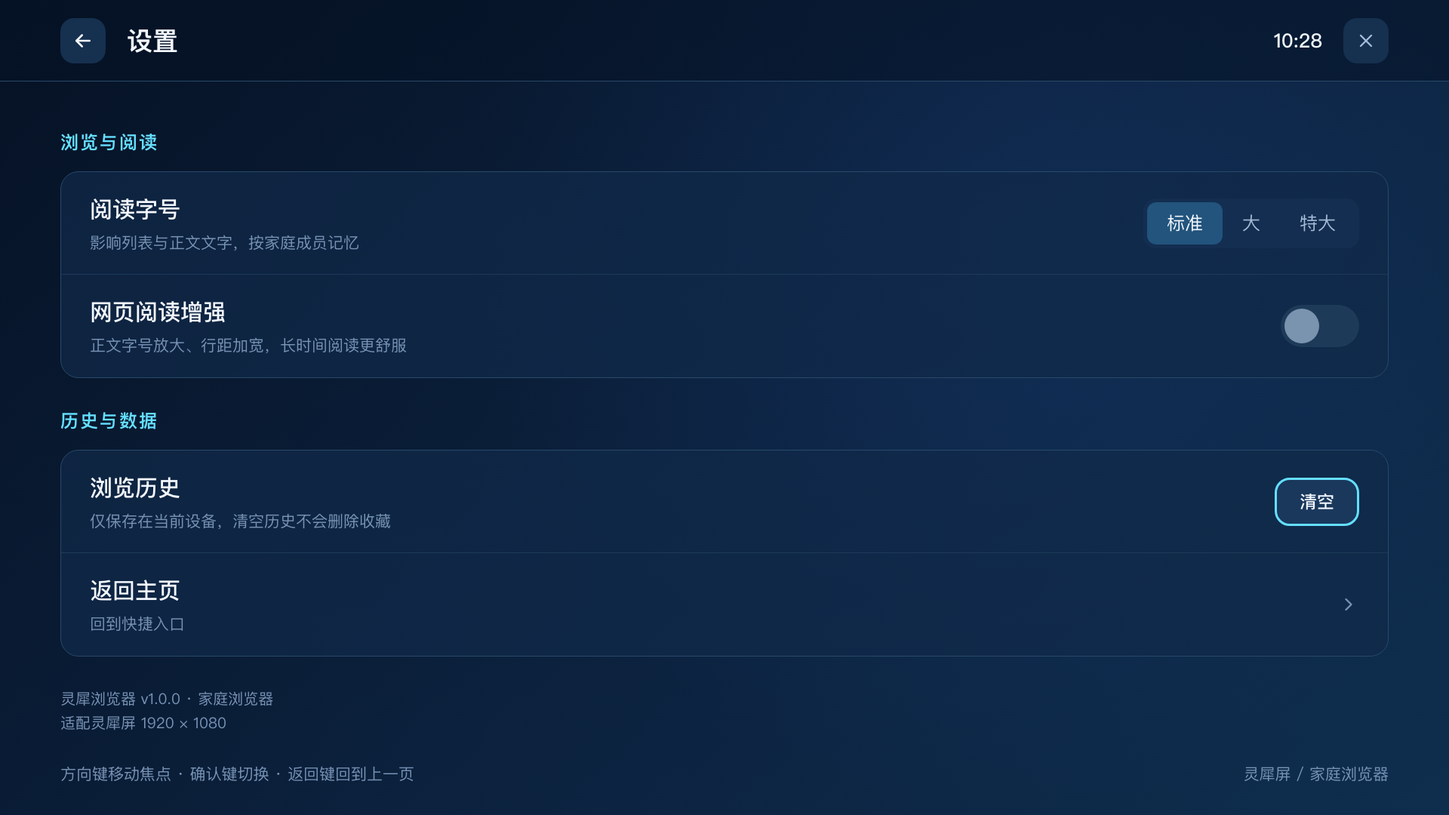
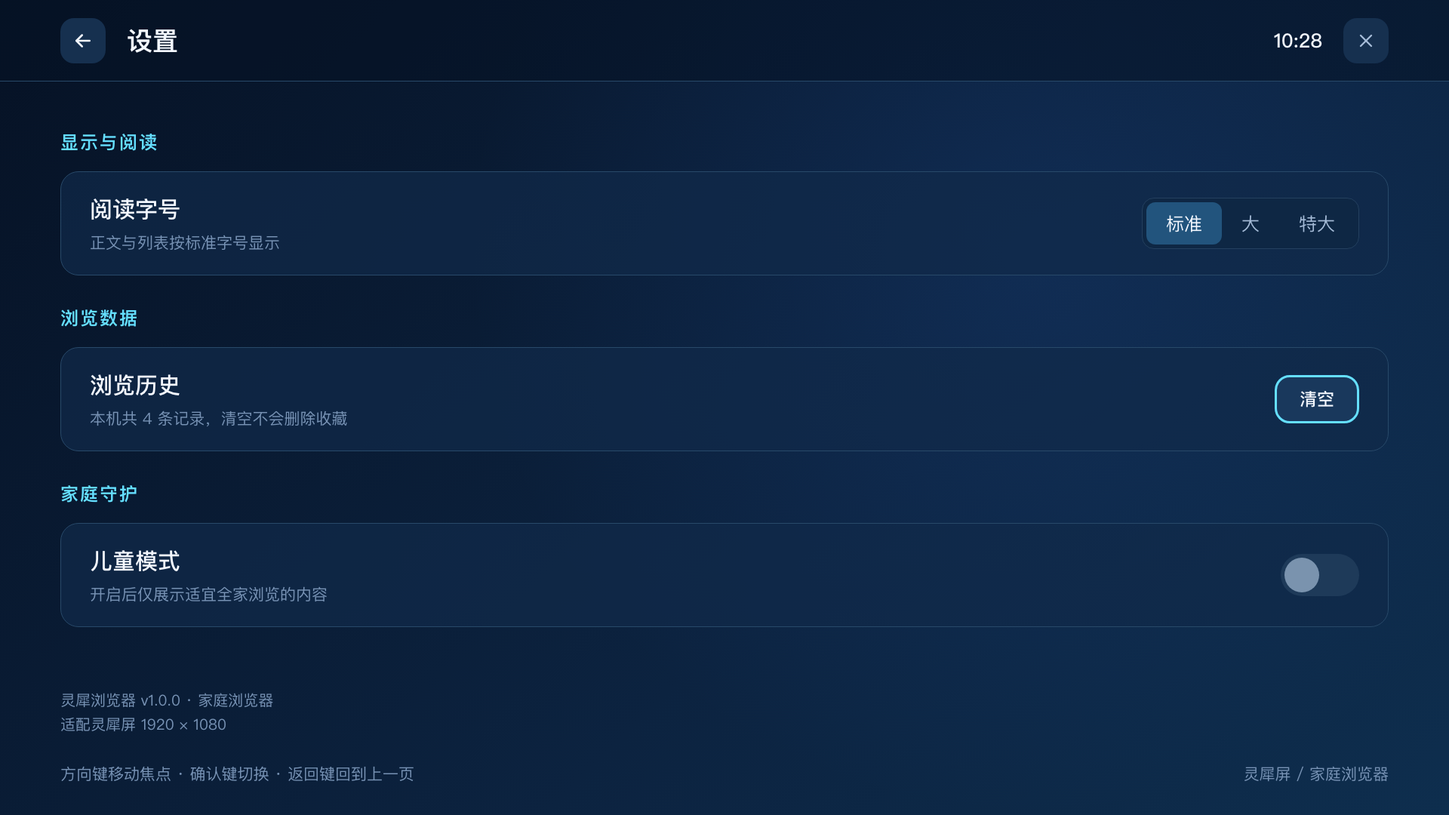
feat: 设置页收敛为三项功能 —— 字号 / 历史记录 / 儿童模式
- 移除「网页阅读增强」开关与「返回主页」行
- 新增儿童模式开关：开启后副文案切换 + toast 提示，深链 kid=1 可直达
- 历史记录副文案展示本机真实条数，清空后变空态文案
- 字号副文案随三档联动
- 版本信息贴底布局，三组间距重新排布
- 新增 14 号预览图（儿童模式开启 + 特大字号），README 同步

diff --git a/index.html b/index.html
@@ -1,10 +1,9 @@
 <!DOCTYPE html>
-<html lang="zh-CN">
-<head>
-<meta charset="UTF-8">
-<meta name="viewport" content="width=device-width,initial-scale=1,viewport-fit=cover">
-<title>灵犀浏览器 · 高保真可交互 Demo（Figma 版）</title>
-<style>
+<html lang="zh-CN" data-page-node-id="DjCgI4465AZDsR3R7Gexhx"><head data-page-node-id="IdLSj3w5U4Wdhj05lxm36c">
+<meta charset="UTF-8" data-page-node-id="A9mv52RTTQGx9aaHUYdgpD">
+<meta name="viewport" content="width=device-width,initial-scale=1,viewport-fit=cover" data-page-node-id="RTt3OwHAK2HHp5IsEByKw9">
+<title data-page-node-id="rR9gjrZJ7OsSranFnjLhww">灵犀浏览器 · 高保真可交互 Demo（Figma 版）</title>
+<style data-page-node-id="Mv7IbpJXWbVAdiCnedDA9O">
 /* ===================== 设计令牌（取自 Figma） ===================== */
 :root{
   --bg-a:#071429; --bg-b:#10294F; --bg-c:#123A61;
@@ -355,11 +354,6 @@ svg{display:block;}
 .sec{margin-top:16px;}
 .sec h5{margin:0;font-size:calc(28px * var(--ts));font-weight:700;color:var(--ink);line-height:41px;}
 .sec p{margin:6px 0 0;font-size:calc(24px * var(--ts));color:#43566B;line-height:35px;}
-/* 网页阅读增强（设置页开关） */
-#stage.read .sec{margin-top:22px;}
-#stage.read .sec p{line-height:44px;}
-#stage.read .at-lead{line-height:46px;}
-#stage.read .res .snip{line-height:38px;}
 .at-note{font-size:19px;color:#64748B;margin-top:18px;}
 .at-side{width:432px;flex:0 0 auto;margin-top:16px;}
 .notes{background:#F2F6F3;border-radius:20px;padding:28px;height:367px;}
@@ -423,7 +417,8 @@ svg{display:block;}
 .setbar h2{margin:0 0 0 28px;font-size:34px;font-weight:700;color:var(--t1);}
 .setbar .sp{flex:1;}
 .setbar .tm{font-size:26px;font-weight:500;color:var(--t1);}
-.setbody{position:absolute;left:0;top:108px;width:1920px;padding:64px 80px 0;z-index:2;}
+.setbody{position:absolute;left:0;top:108px;bottom:104px;width:1920px;padding:64px 80px 0;z-index:2;
+  display:flex;flex-direction:column;}
 .setsec{margin:0 0 22px;font-size:24px;font-weight:700;color:var(--cyan);letter-spacing:2px;}
 .setlist{
   border:1px solid var(--line2);border-radius:24px;overflow:hidden;
@@ -437,11 +432,11 @@ svg{display:block;}
 .sw::after{content:"";position:absolute;left:5px;top:5px;width:46px;height:46px;border-radius:50%;background:#7A93AE;transition:transform .24s var(--ease),background .24s var(--ease);}
 .sw.on{background:#1E6F92;}
 .sw.on::after{transform:translateX(48px);background:var(--cyan);}
-.seg{display:flex;background:#132E50;border-radius:16px;padding:5px;flex:0 0 auto;}
+.seg{display:flex;background:#0E2744;border:1px solid #24405F;border-radius:16px;padding:5px;flex:0 0 auto;}
 .seg div{padding:0 26px;height:56px;display:grid;place-items:center;font-size:24px;color:var(--t2);border-radius:12px;cursor:pointer;}
 .seg div.on{background:#22547D;color:var(--t1);}
 .srow .arrow{width:28px;height:28px;color:var(--t3);}
-.setver{font-size:20px;color:var(--t3);line-height:32px;margin-top:32px;}
+.setver{font-size:20px;color:var(--t3);line-height:32px;margin-top:auto;padding-top:24px;}
 .setfoot{
   position:absolute;left:80px;right:80px;bottom:40px;z-index:2;
   display:flex;align-items:center;justify-content:space-between;
@@ -461,146 +456,147 @@ svg{display:block;}
 
 [hidden]{display:none!important;}
 </style>
-</head>
-<body>
-<div id="wrap">
-<div id="stage">
+<style id="__dm_no_drag_style__">* { -webkit-user-drag: none !important; }</style><style id="__dm_bindable_badge_style__">[data-sp-bindable="database"]{outline:1px dashed #0088ff;outline-offset:2px;border-radius:4px;}[data-sp-bindable="database"] *{pointer-events:none !important;transition:none !important;animation:none !important;}[data-sp-bindable="database"]{transition:none !important;animation:none !important;}</style></head>
+<body data-page-node-id="K0jX4xN5Y0ARMGz3UOBfH4" style="">
+<div id="wrap" data-page-node-id="YT48ERnuIhGshTEkq0cD3b">
+<div id="stage" style="transform: translate(-50%, -50%) scale(0.477083);" data-page-node-id="OiMZeWwTZte4GnMB11GFU7">
 
   <!-- ===================== 设备状态 ===================== -->
-  <header class="statusbar" id="statusbar">
-    <div class="brand">
-      <span class="g" data-i="globe"></span>
-      <span class="name">灵犀浏览器</span>
-      <span class="sep"></span>
-      <span class="sub">一家人的好奇心</span>
+  <header class="statusbar" id="statusbar" data-page-node-id="7hF9Jm30AgtLHV9eD8EetH">
+    <div class="brand" data-page-node-id="3FRlpWeycgC3JjMkxu4DHf">
+      <span class="g" data-i="globe" data-page-node-id="iiInuiCiSjaLB8W9AjsjZ0"><svg class="" viewBox="0 0 24 24" fill="none" stroke="currentColor" stroke-width="2" stroke-linecap="round" stroke-linejoin="round" data-page-node-id="UBAH7RQprLnh2JXO8QKQ3b"><circle cx="12" cy="12" r="10" data-page-node-id="OrcNPzssQK5pJrMO4vhWlt"></circle><path d="M2 12h20" data-page-node-id="5xgaaJU8xqCrxI2sRmV1xF"></path><path d="M12 2a15.3 15.3 0 0 1 4 10 15.3 15.3 0 0 1-4 10 15.3 15.3 0 0 1-4-10 15.3 15.3 0 0 1 4-10z" data-page-node-id="aMJAYrCKd8DtAexYPqmI5Y"></path></svg></span>
+      <span class="name" data-page-node-id="Az4WjOLMXEQEPBeoSfIkBM">灵犀浏览器</span>
+      <span class="sep" data-page-node-id="eq88qudCkc9C4LJAHjGo1c"></span>
+      <span class="sub" data-page-node-id="8wuDrvJZYpAs76Q4n0htrE">一家人的好奇心</span>
     </div>
-    <div class="nettime">
-      <span class="w" data-i="wifi"></span>
-      <span class="txt">网络已连接</span>
-      <span class="time">10:28</span>
+    <div class="nettime" data-page-node-id="ddnrzWRE2qf7RFGRpINEYS">
+      <span class="w" data-i="wifi" data-page-node-id="GG3NxLI0qcSs4x1IRNJzX1"><svg class="" viewBox="0 0 24 24" fill="none" stroke="currentColor" stroke-width="2" stroke-linecap="round" stroke-linejoin="round" data-page-node-id="49KF6WgH5hg6LmjhLPiUEW"><path d="M5 12.55a11 11 0 0 1 14.08 0" data-page-node-id="gnYpUlIxJOpOerC1DuY0it"></path><path d="M8.53 16.11a6 6 0 0 1 6.95 0" data-page-node-id="UyW1zL7vDulvr2z9RpMdjh"></path><path d="M12 20h.01" data-page-node-id="8SApgL5CuZFngvqEqDHZd4"></path></svg></span>
+      <span class="txt" data-page-node-id="VSZBwVBCL3Nm3ccP89AL1d">网络已连接</span>
+      <span class="time" data-page-node-id="Gu6KOAWyvDG3MQ5caXUoBX">10:28</span>
     </div>
   </header>
 
   <!-- ===================== 搜索框 ===================== -->
-  <div class="searchbar" id="searchbar" data-act="toKb">
-    <span class="s-ico" data-i="search"></span>
-    <div class="s-text" id="sbText"></div>
-    <div class="s-mic" id="micBtn" data-act="toVoice" data-i="mic"></div>
-  </div>
+  
 
   <!-- ===================== 首页 Tab ===================== -->
-  <div class="tabs" id="tabs">
-    <div class="tab" data-act="tabFav"><span data-i="grid"></span>快捷入口</div>
-    <div class="tab" data-act="tabHis"><span data-i="clock"></span>浏览历史</div>
+  <div class="searchbar" id="searchbar" data-act="toKb" data-page-node-id="ZSPngofHqGEy9tFm5vRSuq">
+    <span class="s-ico" data-i="search" data-page-node-id="cOmgoD3Ja7awUwRhomfNDw"><svg class="" viewBox="0 0 24 24" fill="none" stroke="currentColor" stroke-width="2" stroke-linecap="round" stroke-linejoin="round" data-page-node-id="kU7V7tAutql9JMsPTPL438"><circle cx="11" cy="11" r="8" data-page-node-id="A7FURaGRbOyPCZjgxDvvYh"></circle><path d="m21 21-4.3-4.3" data-page-node-id="3MOdBkh7vvEe9kAsRsjDs5"></path></svg></span>
+    <div class="s-text" id="sbText" data-page-node-id="YciJF7GeE95Xc51iHGmIOm"><span data-page-node-id="9rce4muwflRkkwLv5gcKbT">搜索或输入网址</span></div>
+    <div class="s-mic" id="micBtn" data-act="toVoice" data-i="mic" data-page-node-id="TedR4Tq5PpWVc63iYU9FmA"><svg class="" viewBox="0 0 24 24" fill="none" stroke="currentColor" stroke-width="2" stroke-linecap="round" stroke-linejoin="round" data-page-node-id="njfIQY2cRkQhxDZTpZs5y6"><path d="M12 2a3 3 0 0 0-3 3v7a3 3 0 0 0 6 0V5a3 3 0 0 0-3-3z" data-page-node-id="YdzLXvcwiJPca5zDtCF7mm"></path><path d="M19 10v2a7 7 0 0 1-14 0v-2" data-page-node-id="pR4787wGQxrBml4SDdOWWX"></path><path d="M12 19v3" data-page-node-id="6COSg0HfYSZ2XoA0qRFqZX"></path></svg></div>
+  </div><div class="tabs" id="tabs" data-page-node-id="0WCVQHSzqmR3DBUqrYrHcK">
+    <div class="tab on" data-act="tabFav" data-page-node-id="0PUWaODGz59ctHsHbWXAgh"><span data-i="grid" data-page-node-id="JdpN08d1MCrnUL88CL33no"><svg class="" viewBox="0 0 24 24" fill="none" stroke="currentColor" stroke-width="2" stroke-linecap="round" stroke-linejoin="round" data-page-node-id="a8AODklpAzGhQjwHfbeq1Y"><rect x="3" y="3" width="7" height="7" rx="1.4" data-page-node-id="it2wakjMoFfaqXD0nJtiOr"></rect><rect x="14" y="3" width="7" height="7" rx="1.4" data-page-node-id="m5GsHePpUiybUxv4GYMpwA"></rect><rect x="14" y="14" width="7" height="7" rx="1.4" data-page-node-id="NCuJB0ibyZEOtoVhlSBpyJ"></rect><rect x="3" y="14" width="7" height="7" rx="1.4" data-page-node-id="HfZqBNBD7IRYkSAHI24sGu"></rect></svg></span>快捷入口</div>
+    <div class="tab" data-act="tabHis" data-page-node-id="enoV7zDGxvV2FAiDSpNBEs"><span data-i="clock" data-page-node-id="T7j2bf55jkSsEW6DFY1njc"><svg class="" viewBox="0 0 24 24" fill="none" stroke="currentColor" stroke-width="2" stroke-linecap="round" stroke-linejoin="round" data-page-node-id="zFp1CgHOGQMUsN74qCusbF"><circle cx="12" cy="12" r="10" data-page-node-id="0GK6ilpUJCqsK68HzOaGmE"></circle><path d="M12 6v6l4 2" data-page-node-id="EDTm75pGEBd3ZnAX4Zs2wW"></path></svg></span>浏览历史</div>
   </div>
 
   <!-- ===================== 收藏 ===================== -->
-  <section class="favs" id="favs"></section>
+  <section class="favs" id="favs" data-page-node-id="60yCrflzl7Y14qbRR3OwOs"><div class="head" data-page-node-id="0vOUBIp00XYTFneSavKA08"><div class="l" data-page-node-id="BTjRgQoFzYhwfmo6roNAy7"><h2 data-page-node-id="FsU9ePF3opNxQ0WU98VIzD">我的收藏</h2><span class="slash" data-page-node-id="jqCif7XFSmz0DyIHzsOOZ2">/</span><span class="sub" data-page-node-id="qB5F99iBy9j8dnuvdoX8Ts">常用</span></div><div class="r" data-page-node-id="9sYrhjR6jAO010o0Gs2iAm">常去的网站，一步到达</div></div><div class="grid" data-page-node-id="Z8hm56Yb65lMoFiXoxvqiu"><div class="site on" data-act="openSite" data-idx="0" data-page-node-id="itqpySNeTvKk6aQKlGv2EW"><div class="row1" data-page-node-id="xh0OWCGRht0PNp7lsiE4a4"><div class="badge" style="background:rgba(229,139,172,0.125);color:#E58BAC" data-page-node-id="Gy7j7Q1mJpp510Z7b1rn92">哔</div><div class="meta" data-page-node-id="8RF1N07qI7b7ei39grAwHH"><div class="nm" data-page-node-id="H4QQjUEbxp6BdN8HNkqHTG">哔哩哔哩</div><div class="dm" data-page-node-id="tdHakL4XefxERpIu0UgksM">bilibili.com</div></div></div><div class="row2" data-page-node-id="pi5RqDEuRezEHsgswZXgYU"><span class="use" data-page-node-id="Hc2aKy22VI7fZyFu7l69BA">视频 · 兴趣与知识</span><span class="go" style="color:var(--cyan)" data-page-node-id="JPN4dwoOK8oVbww5ZKY6cj"><svg class="" viewBox="0 0 24 24" fill="none" stroke="currentColor" stroke-width="2" stroke-linecap="round" stroke-linejoin="round" data-page-node-id="dH7lRA5uZXAMBSpICRWxw4"><path d="M7 17 17 7" data-page-node-id="xsryMiAwWBhy4ei1jrBZYz"></path><path d="M7 7h10v10" data-page-node-id="e5NTnoeuKR5UAE02RVmyGh"></path></svg></span></div></div><div class="site" data-act="openSite" data-idx="1" data-page-node-id="luHhtRc6wXfvoSIKAvjE6K"><div class="row1" data-page-node-id="62l2FKCLENz3QVTXSHe3Ug"><div class="badge" style="background:rgba(179,165,244,0.125);color:#B3A5F4" data-page-node-id="Ot3joJTzjxawA3mzYFEwDx">咪</div><div class="meta" data-page-node-id="iQ0UgLy92OvPCyqDpVpwbY"><div class="nm" data-page-node-id="B0klLMJX3s8aLTIQMAX9qE">移动咪咕</div><div class="dm" data-page-node-id="n4ra5m6P2cunJEASxvkQXI">migu.cn</div></div></div><div class="row2" data-page-node-id="fojb0fGY91x9H0krfh6Plv"><span class="use" data-page-node-id="GeJYaPqXEHYeVLyWtVDxlT">影音 · 赛事与好剧</span><span class="go" style="color:var(--t3)" data-page-node-id="SK01CJtiHmqa5ceWpBRpyE"><svg class="" viewBox="0 0 24 24" fill="none" stroke="currentColor" stroke-width="2" stroke-linecap="round" stroke-linejoin="round" data-page-node-id="EIlKb95WNnsOJp7UGPBqHz"><path d="m9 18 6-6-6-6" data-page-node-id="HBHuBb7OVIUr3cVWQ7Pvom"></path></svg></span></div></div><div class="site" data-act="openSite" data-idx="2" data-page-node-id="FBlAoOlh4FtEkAmNd5RCLA"><div class="row1" data-page-node-id="MLNIBzJMwxmBMdN6xNBlyB"><div class="badge" style="background:rgba(120,189,246,0.125);color:#78BDF6" data-page-node-id="G1iDuHr1giN1Nb4ww5OfxA">学</div><div class="meta" data-page-node-id="hKGuartVnDXBa6ECzi3aic"><div class="nm" data-page-node-id="LboAlxWD1WCJStswz8nAX3">国家智慧教育平台</div><div class="dm" data-page-node-id="BbLDMZw9rD5sDDC69uuB9p">smartedu.cn</div></div></div><div class="row2" data-page-node-id="RvphuRsLTWLXCtcWwaqWmY"><span class="use" data-page-node-id="NCyaQcB9acgAEB4oqwapB4">教育 · 优质学习资源</span><span class="go" style="color:var(--t3)" data-page-node-id="k1xFzDHJU0UZyBlPsi4vGl"><svg class="" viewBox="0 0 24 24" fill="none" stroke="currentColor" stroke-width="2" stroke-linecap="round" stroke-linejoin="round" data-page-node-id="VTbQfjyu3FDovmSs5NHAOX"><path d="m9 18 6-6-6-6" data-page-node-id="Jg2webRkkWfUlX19Y4DMT4"></path></svg></span></div></div><div class="site" data-act="openSite" data-idx="3" data-page-node-id="yyB3HQUDSu7pfIAGKHHDZP"><div class="row1" data-page-node-id="iSvBlm1jFBQ6OgRNavfMIK"><div class="badge" style="background:rgba(230,189,123,0.125);color:#E6BD7B" data-page-node-id="DNA84oHEkZ2Wr4v7dewXsx">晴</div><div class="meta" data-page-node-id="HXNxay2CpXyyjifCaQr1Vs"><div class="nm" data-page-node-id="P7WjStjq9DPWmRyBT9sK3Q">中国天气网</div><div class="dm" data-page-node-id="hO6Gh147NFDjosCY9d6dN3">weather.com.cn</div></div></div><div class="row2" data-page-node-id="ZWu0l0Fb0Cr9M2fzGn9DoW"><span class="use" data-page-node-id="oW3VFBDqlBuHwpmTMiKtK7">生活 · 预报与出行</span><span class="go" style="color:var(--t3)" data-page-node-id="3R3CrLSJrAeURIYTGsNgq3"><svg class="" viewBox="0 0 24 24" fill="none" stroke="currentColor" stroke-width="2" stroke-linecap="round" stroke-linejoin="round" data-page-node-id="QrmFe11W4uVo00Dpe7VfbK"><path d="m9 18 6-6-6-6" data-page-node-id="bES78fu6iASA7rhxtEUzrv"></path></svg></span></div></div><div class="site" data-act="openSite" data-idx="4" data-page-node-id="0X3J2EGtSsYRpnDg7BR1rd"><div class="row1" data-page-node-id="Qkr8dakt9iYkXgDm3EXGeD"><div class="badge" style="background:rgba(125,202,188,0.125);color:#7DCABC" data-page-node-id="lH5npqzScnGHnTsDsjFYUh">政</div><div class="meta" data-page-node-id="lwNDCIGvYzvVkazdac237D"><div class="nm" data-page-node-id="FGkcwcOC6c5ESUjIocD2Tr">国家政务服务平台</div><div class="dm" data-page-node-id="ZN3DYeD2fdtjsp3Cy2RS3Q">gjzwfw.gov.cn</div></div></div><div class="row2" data-page-node-id="AAEYWAQdYdY2vkE5wHkRgS"><span class="use" data-page-node-id="FgpPBNqK4NYd3RMJpsOH2I">政务 · 便民服务</span><span class="go" style="color:var(--t3)" data-page-node-id="dFXa2z6PlqWlKsQ6GHWovk"><svg class="" viewBox="0 0 24 24" fill="none" stroke="currentColor" stroke-width="2" stroke-linecap="round" stroke-linejoin="round" data-page-node-id="IIBqXDrsAVK1z3jtA6Oqdz"><path d="m9 18 6-6-6-6" data-page-node-id="aGqNZMUsJw1uchNvXGaIke"></path></svg></span></div></div><div class="site" data-act="openSite" data-idx="5" data-page-node-id="3xXEncPnZBFN7TOOaTt0gL"><div class="row1" data-page-node-id="E1EkyrnbH5bHhgkk8HrDkw"><div class="badge" style="background:rgba(147,178,239,0.125);color:#93B2EF" data-page-node-id="ALRTKEEzin0REDAVqxhgHa">新</div><div class="meta" data-page-node-id="4svX48keIuSkjBrcjmY6GD"><div class="nm" data-page-node-id="s9tWUKZnfLuvCGUvxVPTqi">新华网</div><div class="dm" data-page-node-id="xFkMvKgPN6SCC9rpabBdtP">news.cn</div></div></div><div class="row2" data-page-node-id="HuH18USE2DSdxFDBgFGnOM"><span class="use" data-page-node-id="tlGQilHcKQBKLj4Ox2uAtD">资讯 · 了解身边世界</span><span class="go" style="color:var(--t3)" data-page-node-id="mkBFH2Zhx5h3KujdhiQ7nV"><svg class="" viewBox="0 0 24 24" fill="none" stroke="currentColor" stroke-width="2" stroke-linecap="round" stroke-linejoin="round" data-page-node-id="4moZQZBEDIdQj5WTBh620u"><path d="m9 18 6-6-6-6" data-page-node-id="DOpaFR5ijEUzSEM2bgWncm"></path></svg></span></div></div></div><div class="tip" data-page-node-id="KXqw1Me8mRbEocqAzIOUnT"><svg class="" viewBox="0 0 24 24" fill="none" stroke="currentColor" stroke-width="2" stroke-linecap="round" stroke-linejoin="round" data-page-node-id="lCIBTUxjSDFE1ftkWkOER2"><path d="m12 2 3.09 6.26L22 9.27l-5 4.87 1.18 6.88L12 17.77l-6.18 3.25L7 14.14 2 9.27l6.91-1.01L12 2z" data-page-node-id="gHR98tz2ZGP7ZxpHBl7D7X"></path></svg><span data-page-node-id="8SEGSp6vVQSzSV2rr5aVic">浏览网页时点右上角星标收藏，把喜欢的页面留在这里。</span></div></section>
 
   <!-- ===================== 浏览历史 ===================== -->
-  <section class="history" id="history" hidden></section>
+  <section class="history" id="history" hidden="" data-page-node-id="TG7OqijtL8GyiGsPz823ER"></section>
 
   <!-- ===================== 空状态 ===================== -->
-  <section class="empty" id="empty" hidden></section>
+  <section class="empty" id="empty" hidden="" data-page-node-id="UCxMxgu6clUgI9WAAG8t4s"></section>
 
   <!-- ===================== 键盘 ===================== -->
-  <section class="kb" id="kb" hidden></section>
+  <section class="kb" id="kb" hidden="" data-page-node-id="l9IO6PwYVJM2V3qJjnFW0h"></section>
 
   <!-- ===================== 语音 ===================== -->
-  <section class="voice" id="voice" hidden></section>
+  <section class="voice" id="voice" hidden="" data-page-node-id="qhSUk4OBhqD3dZKIxrA5l4"></section>
 
   <!-- ===================== 网页浏览 ===================== -->
-  <div class="webbar" id="webbar" hidden>
-    <div class="wb-home" data-act="toHome" title="返回主页" data-i="home"></div>
-    <div class="address">
-      <span class="lock" data-i="lock"></span>
-      <span class="url" id="wbUrl"></span>
-      <span class="pct" id="wbPct">0%</span>
-      <span class="div"></span>
-      <span class="refresh" data-act="refresh" id="wbRefresh" data-i="refresh"></span>
+  <div class="webbar" id="webbar" hidden="" data-page-node-id="qUs0FcdHkXfnSDqTrJlwsc">
+    <div class="wb-home" data-act="toHome" title="返回主页" data-i="home" data-page-node-id="BqufoHTlvEDRLVFA0zfyxv"><svg class="" viewBox="0 0 24 24" fill="none" stroke="currentColor" stroke-width="2" stroke-linecap="round" stroke-linejoin="round" data-page-node-id="FoGzeArmwCsVkjr2cF2Ajd"><path d="m3 9 9-7 9 7v11a2 2 0 0 1-2 2H5a2 2 0 0 1-2-2z" data-page-node-id="vjDG8Yfhl5JC7cdRfkPok2"></path><path d="M9 22V12h6v10" data-page-node-id="WR1vFRYeVFYFxFcKw1XfBb"></path></svg></div>
+    <div class="address" data-page-node-id="xSHy9R0zAcdFUbMg8Rb1uN">
+      <span class="lock" data-i="lock" data-page-node-id="x9g0IokwhHPfep8LPdGneG"><svg class="" viewBox="0 0 24 24" fill="none" stroke="currentColor" stroke-width="2" stroke-linecap="round" stroke-linejoin="round" data-page-node-id="ceSPVdilFL8A90kQ1KJhg2"><rect x="3" y="11" width="18" height="11" rx="2" data-page-node-id="l3aAmbr8HIZ1yF11HELMwW"></rect><path d="M7 11V7a5 5 0 0 1 10 0v4" data-page-node-id="OeqTryVSAEhBUHOApMSHip"></path></svg></span>
+      <span class="url" id="wbUrl" data-page-node-id="hDj2hv6HYRDPbSw8UBlNP2"></span>
+      <span class="pct" id="wbPct" data-page-node-id="kFXflBDnJtM0HX0Hkdd4hS">0%</span>
+      <span class="div" data-page-node-id="tbvI4rMUvkN0sDZPCjMI30"></span>
+      <span class="refresh" data-act="refresh" id="wbRefresh" data-i="refresh" data-page-node-id="zFoCEWPYfREG7By5mUrMUo"><svg class="" viewBox="0 0 24 24" fill="none" stroke="currentColor" stroke-width="2" stroke-linecap="round" stroke-linejoin="round" data-page-node-id="ET3v1SlRMSDkKobCZPx3w2"><path d="M21 12a9 9 0 1 1-2.64-6.36" data-page-node-id="xHkwc1dw1Dwbz8Ohc10byo"></path><path d="M21 3v6h-6" data-page-node-id="g2Zkh8ORL1e6kFbgwrlQ1g"></path></svg></span>
     </div>
-    <div class="wb-star" id="wbStar" data-act="toggleStar" title="收藏">
-      <span data-i="star"></span>
+    <div class="wb-star" id="wbStar" data-act="toggleStar" title="收藏" data-page-node-id="TKr1JROp2HbXbYTTQ2a59N">
+      <span data-i="star" data-page-node-id="2thiklg8MRUEwFXGAxxVjT"><svg class="" viewBox="0 0 24 24" fill="none" stroke="currentColor" stroke-width="2" stroke-linecap="round" stroke-linejoin="round" data-page-node-id="zbH2zsCnSjFUDNZ2IeoTo3"><path d="m12 2 3.09 6.26L22 9.27l-5 4.87 1.18 6.88L12 17.77l-6.18 3.25L7 14.14 2 9.27l6.91-1.01L12 2z" data-page-node-id="EycFXbLjAJDRGuCAboc4vw"></path></svg></span>
     </div>
-    <div class="wb-set" id="wbSet" data-act="openSet">
-      <span data-i="gear"></span><span>设置</span>
+    <div class="wb-set" id="wbSet" data-act="openSet" data-page-node-id="XhmvEmqVpDRzYFGLl55h5m">
+      <span data-i="gear" data-page-node-id="k32y6qFAMn9jTMp1F5XGf3"><svg class="" viewBox="0 0 24 24" fill="none" stroke="currentColor" stroke-width="2" stroke-linecap="round" stroke-linejoin="round" data-page-node-id="jYFQwaJ8l50vv96Rhvzefg"><circle cx="12" cy="12" r="3" data-page-node-id="FZNGp5RI1GCpgLjQTPBSWZ"></circle><path d="M19.4 15a1.65 1.65 0 0 0 .33 1.82l.06.06a2 2 0 0 1-2.83 2.83l-.06-.06a1.65 1.65 0 0 0-1.82-.33 1.65 1.65 0 0 0-1 1.51V21a2 2 0 0 1-4 0v-.09A1.65 1.65 0 0 0 9 19.4a1.65 1.65 0 0 0-1.82.33l-.06.06a2 2 0 0 1-2.83-2.83l.06-.06a1.65 1.65 0 0 0 .33-1.82 1.65 1.65 0 0 0-1.51-1H3a2 2 0 0 1 0-4h.09A1.65 1.65 0 0 0 4.6 9a1.65 1.65 0 0 0-.33-1.82l-.06-.06a2 2 0 0 1 2.83-2.83l.06.06A1.65 1.65 0 0 0 9 4.6h.09A1.65 1.65 0 0 0 10 3.09V3a2 2 0 0 1 4 0v.09a1.65 1.65 0 0 0 1 1.51 1.65 1.65 0 0 0 1.82-.33l.06-.06a2 2 0 0 1 2.83 2.83l-.06.06a1.65 1.65 0 0 0-.33 1.82V9a1.65 1.65 0 0 0 1.51 1H21a2 2 0 0 1 0 4h-.09a1.65 1.65 0 0 0-1.51 1z" data-page-node-id="MfVZfSHbcI9FrQ46bq3R0n"></path></svg></span><span data-page-node-id="Tpljj9NratJzOyyCX1hdFY">设置</span>
     </div>
   </div>
-  <div class="wb-prog" id="wbProg"><i id="wbProgFill"></i></div>
-  <section class="webcard" id="webcard" hidden></section>
+  <div class="wb-prog" id="wbProg" data-page-node-id="vWuudb94oXiHzgkIDMEdRe"><i id="wbProgFill" data-page-node-id="iX9g7dQBJ3qWXtygssWGIS"></i></div>
+  <section class="webcard" id="webcard" hidden="" data-page-node-id="E488kkCxeqdJXQTQFcvJbJ"></section>
 
   <!-- ===================== 遥控提示 ===================== -->
-  <footer class="remote">
-    <span class="l" id="hintL"></span>
-    <span class="r" id="hintR">灵犀屏 / 家庭浏览器</span>
+  <footer class="remote" data-page-node-id="7R7IDKCNjPMXnv4l41sr21">
+    <span class="l" id="hintL" data-page-node-id="YaELM61jAoxYHqfeA4BccW">方向键移动焦点  ·  确认键选择  ·  返回键返回</span>
+    <span class="r" id="hintR" data-page-node-id="wuyzrNMp2JTaJocDCAqNlp">灵犀屏 / 家庭浏览器</span>
   </footer>
 
   <!-- ===================== 清除历史确认 ===================== -->
-  <div class="mask" id="maskClear">
-    <div class="dialog">
-      <div class="di" data-i="trash"></div>
-      <h3>确定要清除浏览历史吗？</h3>
-      <p class="d1">此操作不可恢复。</p>
-      <p class="d2" id="clearNote">将清除本机的 4 条浏览记录，不会删除我的收藏。</p>
-      <div class="acts">
-        <div class="btn btn-solid" data-act="clearCancel">取消</div>
-        <div class="btn btn-plain" data-act="clearOk">清除</div>
+  <div class="mask" id="maskClear" data-page-node-id="HeXDf7b4y8QOoZ0rkORT7p">
+    <div class="dialog" data-page-node-id="fwZ8C5ARaSzwDLmdW9Qos6">
+      <div class="di" data-i="trash" data-page-node-id="Z6x4gVEK92nnBjRbrMwynd"><svg class="" viewBox="0 0 24 24" fill="none" stroke="currentColor" stroke-width="2" stroke-linecap="round" stroke-linejoin="round" data-page-node-id="SLmkvvXmpfREVarWBpYGBJ"><path d="M3 6h18" data-page-node-id="EBhOdQEsbvciHZnMzoxs18"></path><path d="M8 6V4a2 2 0 0 1 2-2h4a2 2 0 0 1 2 2v2" data-page-node-id="RAruTcyLcFs5F1ElQ3G3Vz"></path><path d="M19 6l-1 14a2 2 0 0 1-2 2H8a2 2 0 0 1-2-2L5 6" data-page-node-id="4YaBQx8UzrbBnne4aQRHTu"></path><path d="M10 11v6" data-page-node-id="iGdVBNVFaMp6EDpPXQjPF7"></path><path d="M14 11v6" data-page-node-id="UFIfKAJOOtakDOHVhPFUi6"></path></svg></div>
+      <h3 data-page-node-id="F8KVz2udo7Tq89v2cHIgAi">确定要清除浏览历史吗？</h3>
+      <p class="d1" data-page-node-id="EIHFcDeUxO1lsmPmBiq5CC">此操作不可恢复。</p>
+      <p class="d2" id="clearNote" data-page-node-id="3EWwHkIQ96txYBXskQkcDg">将清除本机的 4 条浏览记录，不会删除我的收藏。</p>
+      <div class="acts" data-page-node-id="aBeskjLYpnxLV8MXcFOLnX">
+        <div class="btn btn-solid" data-act="clearCancel" data-page-node-id="mp6IqudPIzkzzNYeNQhAQ7">取消</div>
+        <div class="btn btn-plain" data-act="clearOk" data-page-node-id="d9oIHChxMg3k5HVKx9XReM">清除</div>
       </div>
     </div>
   </div>
 
   <!-- ===================== 设置页 ===================== -->
-  <section class="setpg" id="setpg" hidden>
-    <header class="setbar">
-      <div class="bk" data-act="closeSet" title="返回" data-i="arrowR"></div>
-      <h2>设置</h2>
-      <div class="sp"></div>
-      <span class="tm">10:28</span>
-      <div class="x" data-act="closeSet" title="关闭" data-i="x"></div>
+  <section class="setpg" id="setpg" hidden="" data-page-node-id="YGsPM5sFAKMnIWFugoc0lg">
+    <header class="setbar" data-page-node-id="mWETuG7UVRmY2ntDUkcYzM">
+      <div class="bk" data-act="closeSet" title="返回" data-i="arrowR" data-page-node-id="b427KHJOhm4eAnyPG1OEJv"><svg class="" viewBox="0 0 24 24" fill="none" stroke="currentColor" stroke-width="2" stroke-linecap="round" stroke-linejoin="round" data-page-node-id="JNoFmR3CPigVwJc3uJMGe8"><path d="M5 12h14" data-page-node-id="XeGCHMWtoiVd3n1bs4Jn9a"></path><path d="m13 6 6 6-6 6" data-page-node-id="XVdq0CQOhmjAz5U2Qin2JT"></path></svg></div>
+      <h2 data-page-node-id="KM6BuneCjiuNyuCGIXXHmi">设置</h2>
+      <div class="sp" data-page-node-id="YNaQegMWKCycfnA5n8ELQE"></div>
+      <span class="tm" data-page-node-id="XAnKuzqhuDzmiC9cmRYzu3">10:28</span>
+      <div class="x" data-act="closeSet" title="关闭" data-i="x" data-page-node-id="uDgDX9gDdw5utfmkIyCWl2"><svg class="" viewBox="0 0 24 24" fill="none" stroke="currentColor" stroke-width="2" stroke-linecap="round" stroke-linejoin="round" data-page-node-id="C9VqFqqr6rsdqyQLXRFfoX"><path d="M18 6 6 18" data-page-node-id="CiOPZJ3oSasBkzD6pLXCfd"></path><path d="m6 6 12 12" data-page-node-id="mwPxoJM6BzAC301K2gJXWi"></path></svg></div>
     </header>
-    <div class="setbody">
-      <h3 class="setsec">浏览与阅读</h3>
+    <div class="setbody" data-page-node-id="0pBDlcnhbdx9CemcQGkOY4">
+      <h3 class="setsec">显示与阅读</h3>
       <div class="setlist">
         <div class="srow">
-          <div class="lb">阅读字号<small>影响网页正文与列表的显示大小</small></div>
+          <div class="lb">阅读字号<small id="fsNote">影响网页正文与列表的显示大小</small></div>
           <div class="seg" id="segFs">
-            <div data-act="fs0">标准</div><div data-act="fs1">大</div><div data-act="fs2">特大</div>
+            <div data-act="fs0" class="on">标准</div><div data-act="fs1">大</div><div data-act="fs2">特大</div>
           </div>
         </div>
-        <div class="srow">
-          <div class="lb">网页阅读增强<small>正文字号放大、行距加宽，长时间阅读更舒服</small></div>
-          <div class="sw" id="swRead" data-act="toggleRead"></div>
-        </div>
       </div>
-      <h3 class="setsec">历史与数据</h3>
+
+      <h3 class="setsec">浏览数据</h3>
       <div class="setlist">
         <div class="srow">
-          <div class="lb">浏览历史<small>仅保存在当前设备，清空历史不会删除收藏</small></div>
+          <div class="lb">浏览历史<small id="histNote">仅保存在当前设备，清空历史不会删除收藏</small></div>
           <div class="btn btn-ghost" style="height:64px;padding:0 30px;font-size:23px;margin:0" data-act="openClear">清空</div>
         </div>
-        <div class="srow" data-act="toHome" style="cursor:pointer">
-          <div class="lb">返回主页<small>回到快捷入口</small></div>
-          <span class="arrow" data-i="chevronR"></span>
+      </div>
+
+      <h3 class="setsec">家庭守护</h3>
+      <div class="setlist">
+        <div class="srow">
+          <div class="lb">儿童模式<small id="kidNote">开启后仅展示适宜全家浏览的内容</small></div>
+          <div class="sw" id="swKid" data-act="toggleKid"></div>
         </div>
       </div>
-      <div class="setver">
-        灵犀浏览器 v1.0.0 · 家庭浏览器<br>
+      <div class="setver" data-page-node-id="DCzDyj0xwK5YBpk8eCwaVA">
+        灵犀浏览器 v1.0.0 · 家庭浏览器<br data-page-node-id="L65eNNCj6Jhs1UbJsirNhC">
         适配灵犀屏 1920 × 1080
       </div>
     </div>
-    <footer class="setfoot">
-      <span id="setHintL">方向键移动焦点  ·  确认键切换  ·  返回键回到上一页</span>
-      <span id="setfootR">灵犀屏 / 家庭浏览器</span>
+    <footer class="setfoot" data-page-node-id="WtHHvRJg64a1MoMUCDTEKx">
+      <span id="setHintL" data-page-node-id="2nS8SNZN3Wla7vCgLIFgRn">方向键移动焦点  ·  确认键切换  ·  返回键回到上一页</span>
+      <span id="setfootR" data-page-node-id="PYuWhoryaCDY9JINI4tjsy">灵犀屏 / 家庭浏览器</span>
     </footer>
   </section>
 
   <!-- ===================== Toast ===================== -->
-  <div class="toast" id="toast"></div>
+  <div class="toast" id="toast" data-page-node-id="SpZZ01130YYLyNCC1mBa0H"></div>
 
 </div>
 </div>
 
-<script>
+<script data-page-node-id="AYiSruxAzy6Ysb4OR0ahbH">
 /* ===================== 图标 ===================== */
 const ICON={
   globe:'<circle cx="12" cy="12" r="10"/><path d="M2 12h20"/><path d="M12 2a15.3 15.3 0 0 1 4 10 15.3 15.3 0 0 1-4 10 15.3 15.3 0 0 1-4-10 15.3 15.3 0 0 1 4-10z"/>',
@@ -665,7 +661,7 @@ const S={
   view:'home', tab:'fav',
   q:'', py:'', mode:'py', sym:false,
   voiceErr:false,
-  page:'results', starred:false, read:false,
+  page:'results', starred:false, kid:false,
   fs:0, setFrom:'web', modal:false,
   hist:HIST.map(g=>({g:g.g,n:g.n,rows:g.rows.slice()})),
   toastTimer:null,
@@ -1037,11 +1033,13 @@ function render(){
 
   $('#maskClear').classList.toggle('show',S.modal);
   $('#wbStar').classList.toggle('on',S.starred);
-  $('#swRead').classList.toggle('on',S.read);
-  stage.classList.toggle('read',S.read);
+  $('#swKid').classList.toggle('on',S.kid);
   document.querySelectorAll('#segFs div').forEach((d,i)=>d.classList.toggle('on',i===S.fs));
   const total=S.hist.reduce((a,g)=>a+g.rows.length,0);
   $('#clearNote').textContent='将清除本机的 '+total+' 条浏览记录，不会删除我的收藏。';
+  $('#histNote').textContent = total? ('本机共 '+total+' 条记录，清空不会删除收藏') : '暂无浏览记录，仅保存在当前设备';
+  $('#fsNote').textContent = ['正文与列表按标准字号显示','正文与列表已放大一档','正文与列表已放大到最大'][S.fs];
+  $('#kidNote').textContent = S.kid? '已开启 · 仅展示适宜全家浏览的内容' : '开启后仅展示适宜全家浏览的内容';
   if(isWeb && S.load.on) $('#hintL').textContent='页面加载中 '+S.load.pct+'%  ·  请稍候';
   paintIcons();
 }
@@ -1088,7 +1086,7 @@ const ACT={
     S.starred=!S.starred; render();
     toast(S.starred?'已收藏到「我的收藏」':'已取消收藏');
   },
-  toggleRead(){ S.read=!S.read; render(); toast(S.read?'已开启阅读增强':'已关闭阅读增强'); },
+  toggleKid(){ S.kid=!S.kid; render(); toast(S.kid?'已开启儿童模式':'已关闭儿童模式'); },
   fs0(){ S.fs=0; render(); }, fs1(){ S.fs=1; render(); }, fs2(){ S.fs=2; render(); },
   openClear(){ S.modal=true; render(); },
   clearCancel(){ S.modal=false; render(); },
@@ -1140,7 +1138,7 @@ function readHash(){
   if(p.get('modal')==='clear'){ S.modal=true; }
   if(p.get('fs')) S.fs=+p.get('fs');
   if(p.get('star')==='1') S.starred=true;
-  if(p.get('read')==='0') S.read=false;
+  if(p.get('kid')==='1') S.kid=true;
 }
 readHash();
 
@@ -1157,5 +1155,6 @@ if(S.view==='web') startLoad(); else render();
 fit();
 document.title='灵犀浏览器 · 高保真可交互 Demo（Figma 版）';
 </script>
-</body>
-</html>
+
+
+</body></html>

diff --git a/README.md b/README.md
@@ -34,6 +34,7 @@
 | 11 | 网页浏览 · 已收藏 | `#view=web&page=article&star=1` |
 | 12 | 网页加载 · 结果页（骨架屏） | `#view=web&page=results&q=秋季养生`（约 0.8s 内截图） |
 | 13 | 网页加载 · 文章页（骨架屏） | `#view=web&page=article`（约 0.6s 内截图） |
+| 14 | 设置页 · 儿童模式开启 | `#view=settings&page=article&kid=1&fs=2` |
 
 预览图见 `preview/`，逐页对应上表。
 
@@ -85,14 +86,21 @@
 
 不是侧滑面板，而是铺满 1920 × 1080 的独立页面，交互与上一版一致：顶部返回箭头回来源页，右上 × 关闭，底部遥控提示同步切换。
 
+设置页只保留三项功能，一屏可读完：
+
 | 分组 | 设置项 | 交互 |
 |---|---|---|
-| 浏览与阅读 | 阅读字号 | 分段控件三档（标准 / 大 / 特大），实时作用于正文与列表 |
-| 浏览与阅读 | 网页阅读增强 | 开关；开启后正文行距 35 → 44px、段间距与列表摘要同步放宽 |
-| 历史与数据 | 浏览历史 | 「清空」按钮 → 弹确认框；确认后**留在设置页**并 toast |
-| 历史与数据 | 返回主页 | 整行可点，回到快捷入口 |
+| 显示与阅读 | 阅读字号 | 分段控件三档（标准 / 大 / 特大），实时作用于网页正文与列表；副文案跟随档位变化 |
+| 浏览数据 | 浏览历史 | 副文案显示「本机共 N 条记录」；「清空」→ 弹确认框 → 确认后**留在设置页**、条数归零 |
+| 家庭守护 | 儿童模式 | 开关；开启后副文案变「已开启 · 仅展示适宜全家浏览的内容」并 toast 提示 |
 
-收藏开关已从设置页移出 —— 收藏回归右上角星标，与上一版一致。
+### 设置页三项功能（v1.1）
+
+- **字号**：三档分段控件，不只是标签变化，网页正文与结果列表字号同步缩放（`--ts` 1 / 1.12 / 1.24）
+- **历史记录**：展示真实条数，清空需二次确认，清空后停在设置页不跳转
+- **儿童模式**：开关态 + 文案 + toast 三重反馈
+
+收藏能力不在设置页 —— 收藏是右上角星标的直接操作，与上一版一致。
 
 ---
 
@@ -148,7 +156,7 @@
 - 返回主页、刷新（重新走一遍加载进度）
 - 结果条目点击进入文章页；文章页字号随设置实时变化
 - 右上角星标：点击直接收藏 / 取消，金色点亮 + toast（与上一版一致）
-- 右上角设置：进入全屏设置页，字号三档、阅读增强、清空历史、返回主页
+- 右上角设置：进入全屏设置页，三项功能 —— 字号三档、浏览历史（清空）、儿童模式
 
 **通用**
 - 舞台 1920×1080 自动等比缩放，适配任意窗口
@@ -170,7 +178,7 @@ python3 -m http.server 8000
 
 ```
 index.html           深色版（Figma 还原，单文件）
-preview/             13 张逐页截图（1920×1080，含 2 张加载态）
+preview/             14 张逐页截图（1920×1080，含 2 张加载态）
 light/index.html     浅色版（历史版本）
 light/preview/       浅色版 11 张截图
 .nojekyll            关闭 Jekyll，保证 GitHub Pages 直出
